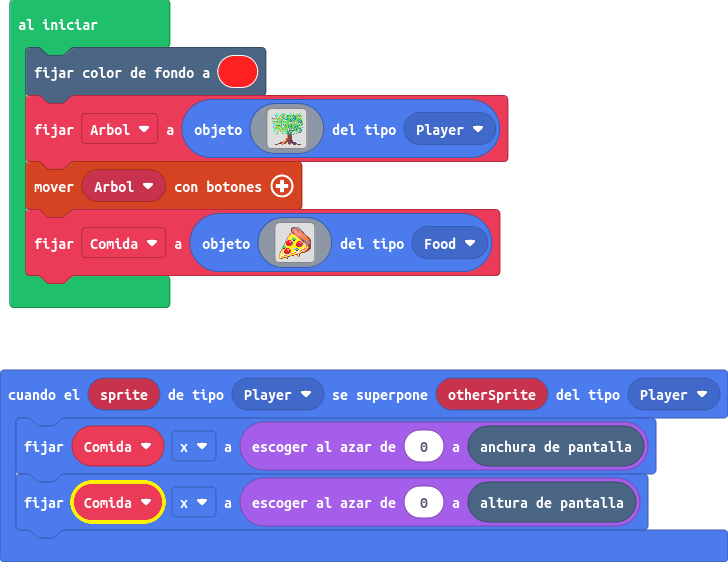
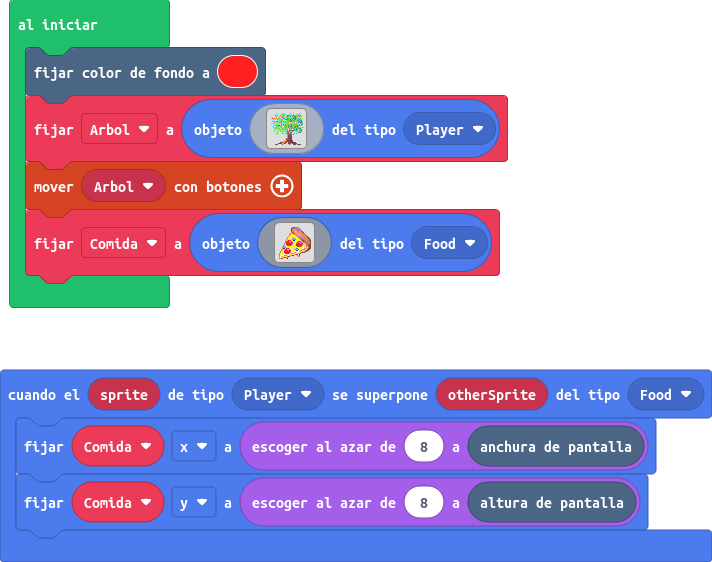
Actualizar main.blocks, main.ts, images.g.jres, images.g.ts

diff --git a/images.g.ts b/images.g.ts
@@ -3,110 +3,7 @@ namespace myImages {
 
     helpers._registerFactory("image", function(name: string) {
         switch(helpers.stringTrim(name)) {
-            case "image1":return img`
-. . . . . . . . . . . . . . . . 
-. . . . . . . . . . . . . . . . 
-. . . . . . . . . . . . . . . . 
-. . . . . . 3 3 3 3 . . . . . . 
-. . 3 3 3 3 3 3 3 3 3 3 3 3 . . 
-. . 3 3 3 3 f f f f 3 3 3 3 . . 
-. . 3 3 3 3 f f f f 3 3 3 3 . . 
-. . 3 3 3 3 f f f f 3 3 3 3 . . 
-. . 3 3 3 3 3 3 3 3 3 3 3 3 . . 
-. . . 3 3 3 . . . . 3 3 3 . . . 
-. . . 3 3 3 . . . . 3 3 3 . . . 
-. . . 3 3 3 . . . . 3 3 3 . . . 
-. . . . . . 3 3 3 3 . . . . . . 
-. . . . . . 3 3 3 3 . . . . . . 
-. . . . . . 3 3 3 3 . . . . . . 
-. . . . . . . . . . . . . . . . 
-`;
-            case "image2":return img`
-..............bbbbbbb...........
-...........bb66663333baa........
-.........bb3367776333663aa......
-........b33333888333389633aa....
-.......b3333333333333389633aa...
-......b34443333333333338633bae..
-.....b3455433333333334443333ae..
-....b33322333dddd3333455233daee.
-...b3d333333dd3bbbb33322333dabe.
-..b3d333333d3bb33bb33333333da4e.
-..bd33333333b33aab3333333223a4ee
-.b3d3663333b33aab33366332442b4ee
-.bd3b983333a3aa3333387633ee3b4ee
-.bd6983333baaa333333387633bb4bee
-b3d6833333bba333333333863ba44ebe
-bdd3333333bb3333333333333a44bebe
-add666633333322333366333ba44bbbe
-ad67776333332442336983d3a444b4e.
-add888b333333ee3369833d3a44b44e.
-add333333333333336833d3a444b4e..
-a3dd3333344433333dddd3a444b44e..
-ab33ddd325543333dd33aa444b44e...
-.eabb3dd32233333baaa4444b44e....
-.ebabb3d333d33baa444443b44e.....
-..ebaab3ddd3aaa4444433b44e......
-..eebbaab33a44444333b444e.......
-...eeebbaab444b333b4444e........
-....ebeeebbbbbbbb4444ee.........
-.....eebbbb44444444ee...........
-.......eeebbb444eee.............
-..........eeeeee................
-................................
-`;
-            case "image3":return img`
-. . . . . . . . . . . . . . . . 
-. . . . . . . . . . . . . . . . 
-. . . . . . . . . . . . . . . . 
-. . . . . . 3 3 3 3 . . . . . . 
-. . 3 3 3 3 3 3 3 3 3 3 3 3 . . 
-. . 3 3 3 3 f f f f 3 3 3 3 . . 
-. . 3 3 3 3 f f f f 3 3 3 3 . . 
-. . 3 3 3 3 f f f f 3 3 3 3 . . 
-. . 3 3 3 3 3 3 3 3 3 3 3 3 . . 
-. . . 3 3 3 . . . . 3 3 3 . . . 
-. . . 3 3 3 . . . . 3 3 3 . . . 
-. . . 3 3 3 . . . . 3 3 3 . . . 
-. . . . . . 3 3 3 3 . . . . . . 
-. . . . . . 3 3 3 3 . . . . . . 
-. . . . . . 3 3 3 3 . . . . . . 
-. . . . . . . . . . . . . . . . 
-`;
-            case "image4":return img`
-..............bbbbbbb...........
-...........bb66663333baa........
-.........bb3367776333663aa......
-........b33333888333389633aa....
-.......b3333333333333389633aa...
-......b34443333333333338633bae..
-.....b3455433333333334443333ae..
-....b33322333dddd3333455233daee.
-...b3d333333dd3bbbb33322333dabe.
-..b3d333333d3bb33bb33333333da4e.
-..bd33333333b33aab3333333223a4ee
-.b3d3663333b33aab33366332442b4ee
-.bd3b983333a3aa3333387633ee3b4ee
-.bd6983333baaa333333387633bb4bee
-b3d6833333bba333333333863ba44ebe
-bdd3333333bb3333333333333a44bebe
-add666633333322333366333ba44bbbe
-ad67776333332442336983d3a444b4e.
-add888b333333ee3369833d3a44b44e.
-add333333333333336833d3a444b4e..
-a3dd3333344433333dddd3a444b44e..
-ab33ddd325543333dd33aa444b44e...
-.eabb3dd32233333baaa4444b44e....
-.ebabb3d333d33baa444443b44e.....
-..ebaab3ddd3aaa4444433b44e......
-..eebbaab33a44444333b444e.......
-...eeebbaab444b333b4444e........
-....ebeeebbbbbbbb4444ee.........
-.....eebbbb44444444ee...........
-.......eeebbb444eee.............
-..........eeeeee................
-................................
-`;
+
         }
         return null;
     })

diff --git a/main.ts b/main.ts
@@ -1,6 +1,6 @@
-sprites.onOverlap(SpriteKind.Player, SpriteKind.Player, function (sprite, otherSprite) {
-    Comida.x = randint(0, scene.screenWidth())
-    Comida.x = randint(0, scene.screenHeight())
+sprites.onOverlap(SpriteKind.Player, SpriteKind.Food, function (sprite, otherSprite) {
+    Comida.x = randint(8, scene.screenWidth())
+    Comida.y = randint(8, scene.screenHeight())
 })
 let Comida: Sprite = null
 scene.setBackgroundColor(2)
